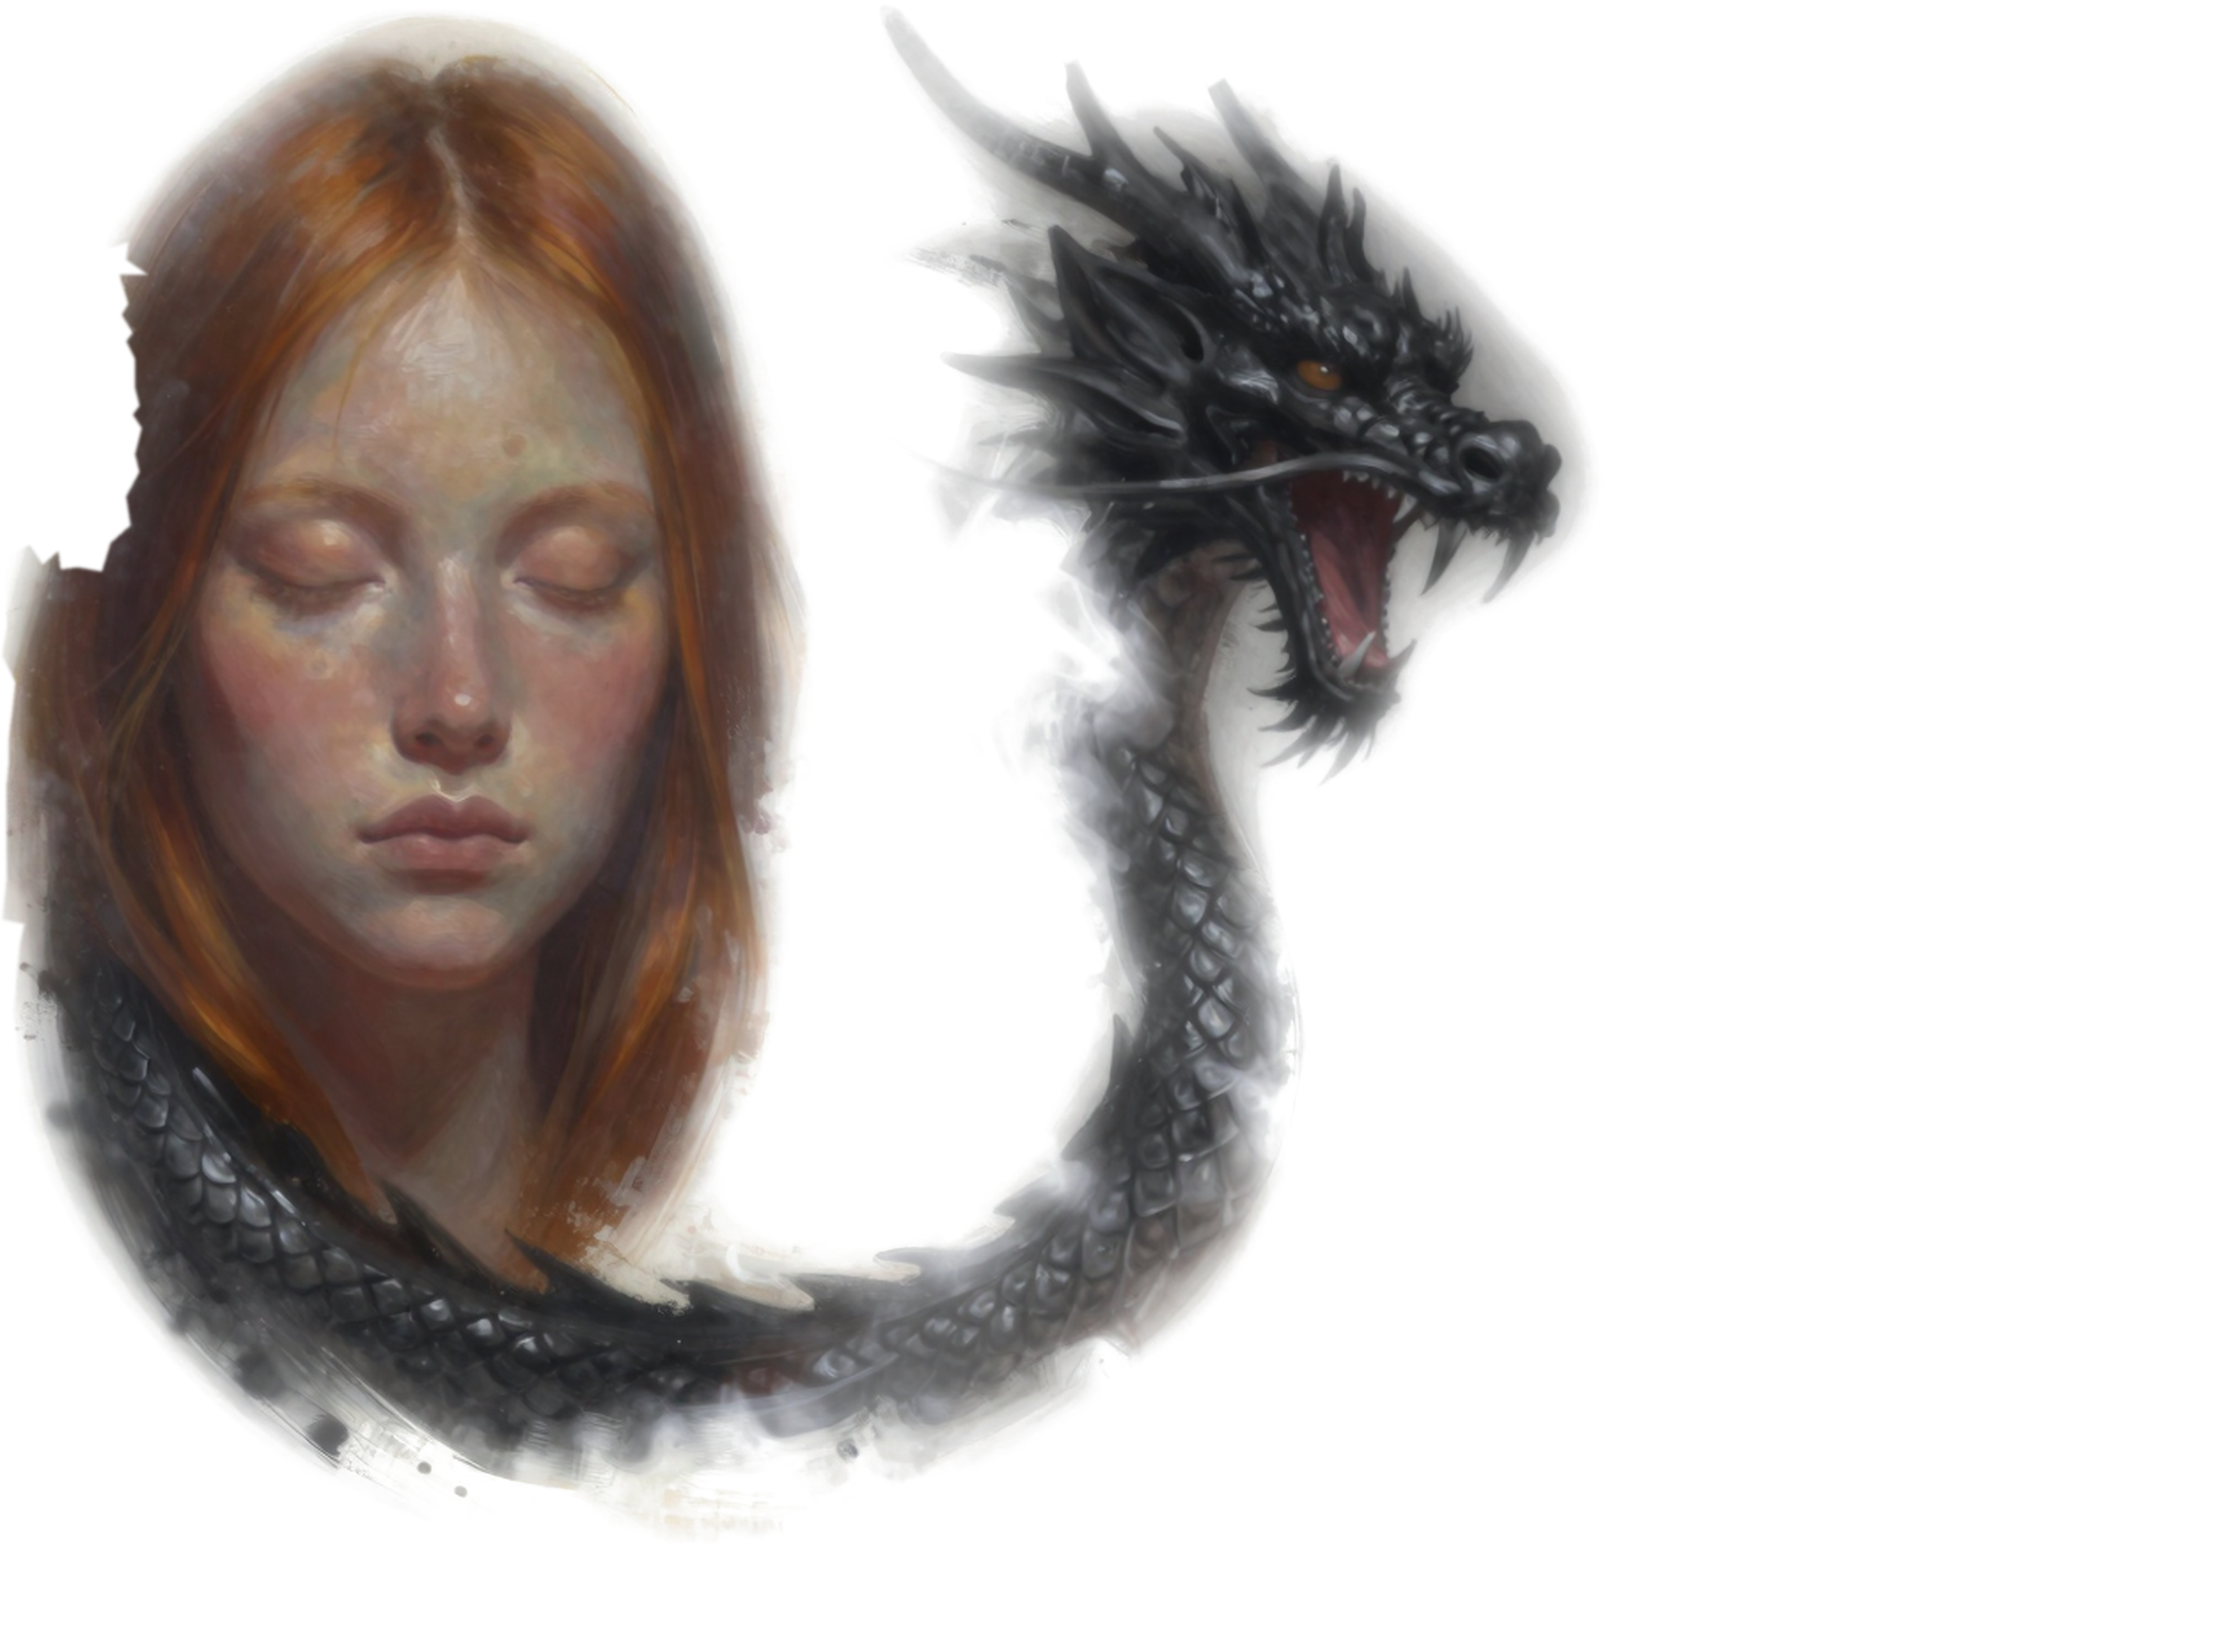
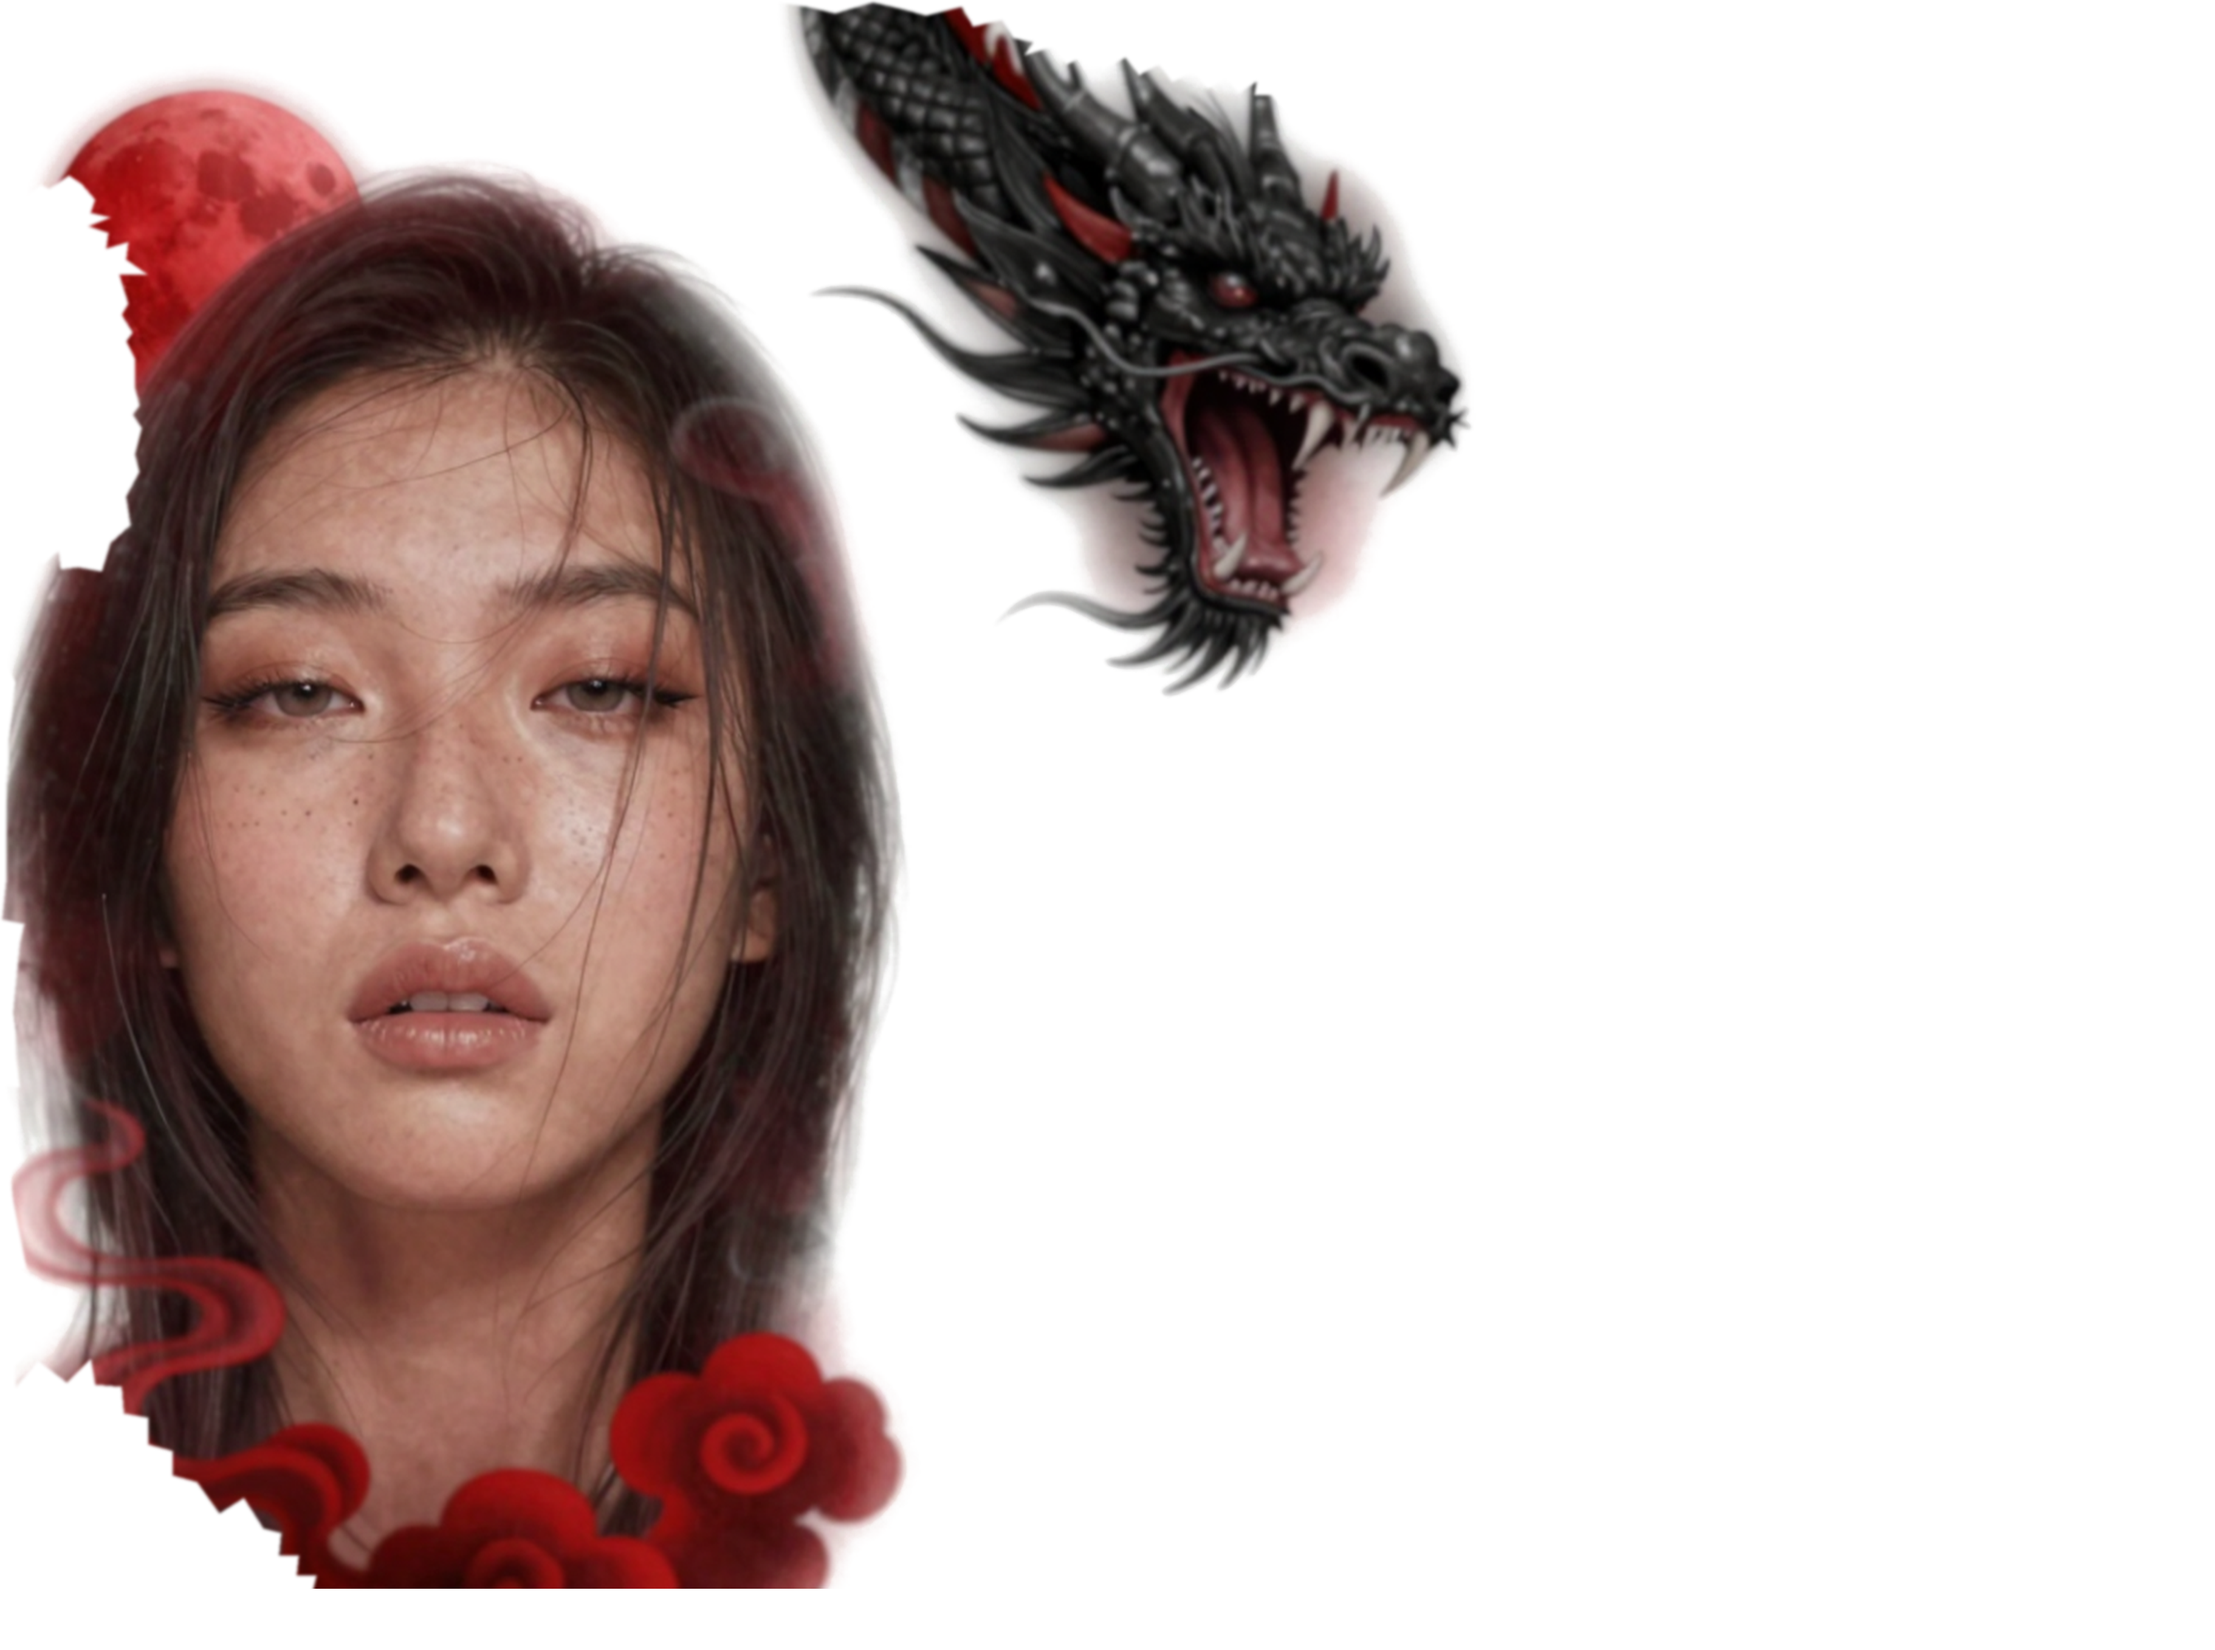
Tutu: loop round 3 on the body; preset tweaks (moon lower, wider face, thicker dragon neck) and feedback
Claude-Session: https://claude.ai/code/session_01SVnjTQfE8Du7CnCgFi8Pj9

diff --git a/tutu/comfy_nodes/core.py b/tutu/comfy_nodes/core.py
@@ -59,14 +59,14 @@ LAYOUTS = {
     # and clouds; the dragon's head on the right pec, its body going up over the right shoulder.
     "reference_red_back_dragon_chest": {
         "canvas": "wrap_torso",
-        "ellipses": [((20, 40, 150, 170), (150, 30, 25)),      # red moon, upper left of the back
-                     ((10, 80, 390, 717), (55, 30, 30)),       # dark hair mass, whole back
-                     ((80, 150, 330, 640), (170, 120, 105)),   # face, centred on the spine (x~200)
+        "ellipses": [((10, 80, 390, 717), (55, 30, 30)),       # dark hair mass, whole back
+                     ((60, 160, 200, 300), (150, 30, 25)),     # red moon, upper left of the back
+                     ((90, 170, 330, 600), (170, 120, 105)),   # face, centred on the spine (x~200)
                      ((95, 170, 210, 420), (200, 150, 130)),   # light on the cheek
                      ((0, 560, 400, 760), (120, 40, 35))],     # red clouds, lower back
         "polygons": [([(440, 70), (520, 40), (620, 90), (650, 170), (600, 230), (545, 300), (500, 290), (470, 200)], (35, 25, 25)),  # head on the right pec
                      ([(545, 200), (640, 175), (600, 290)], (130, 30, 30))],                                                      # open jaws
-        "path": ([(470, 120), (440, 60), (410, 20), (380, 0)], 75, (40, 28, 28)),                                                  # neck up over the right shoulder
+        "path": ([(480, 140), (455, 80), (430, 30), (410, 0)], 95, (40, 28, 28)),                                                  # neck up over the right shoulder
     },
     "face_back_dragon_chest": {
         "canvas": "wrap_torso",

diff --git a/tutu/local_gen/loop/FEEDBACK.md b/tutu/local_gen/loop/FEEDBACK.md
@@ -20,3 +20,10 @@
 - Підкладка: вузол «Tutu: розкладка композиції», **preset `reference_red_back_dragon_chest`** (новий, git pull), background white, blur 10. denoise 0.8 (пробуй 0.75–0.9).
 - Промпт: "hyperrealistic black and grey tattoo with deep crimson red accents on plain white background, fine detailed tattoo art, stippled shading; on the left a huge face of a beautiful young asian woman fills the whole height, messy dark hair strands across her face, half-open pale eyes, parted lips, freckles, behind her a large red moon and swirling red clouds and smoke; on the right the head of a black dragon with fine scales and red accents roars with open jaws and long fangs facing left, its neck rises up to the top edge; one continuous tattoo design"
 - Мета на раунд: 3 сіди. Оцінюй сам за переліком вище; найкращі пуш як r02_…, r03_… у tutu-local-gen.
+
+## Після раунду 3 (r03_seed303 на тілі — спина вже дуже схожа на референс)
+1. Місяць обрізаний верхнім краєм (лягає на верх плеча): опусти його нижче й ближче до хребта — центр ~(130, 230) од., радіус ~70 од.
+2. Хмари внизу — мультяшні спіралі. Потрібні реалістичні клуби диму/хмар з червоним підсвітленням: "realistic billowing smoke clouds".
+3. Обличчя трохи витягнуте вертикально — зроби зону обличчя ширшою/нижчою (≈ 90–330 по x, 170–600 по y).
+4. Груди: голова добра, але немає тіла дракона. Шия має бути товстою, лускатою, червоні плавці, іти вгору через праве плече (верхній край на x≈380–470) — як у референсі.
+5. Стиль: менше «фото», більше тату — "tattoo ink on skin, fine linework, stippling, black and grey realism tattoo".
